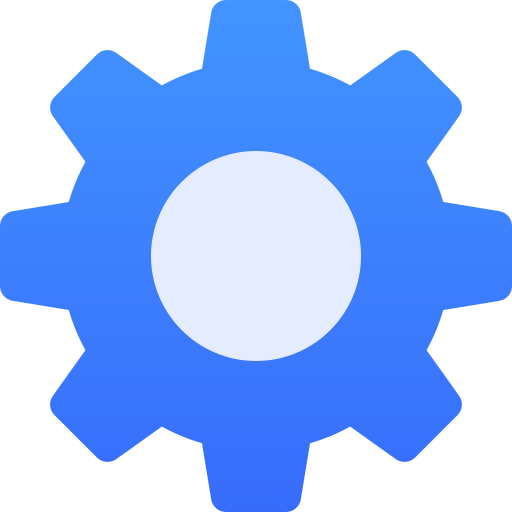
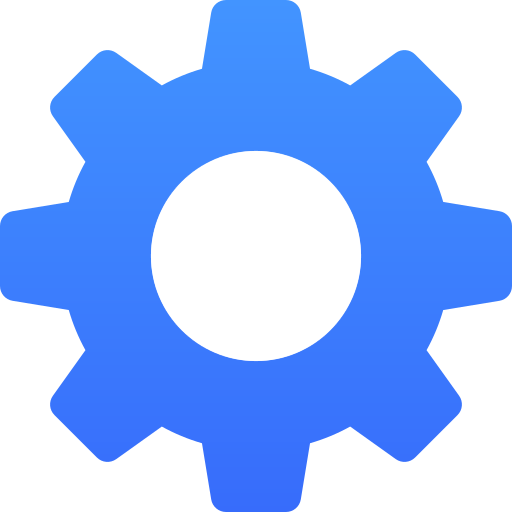
selecting files in mobile

Changed region(s): [[0.2812, 0.2812, 0.7188, 0.7188]]

diff --git a/src/components/icon.tsx b/src/components/icon.tsx
@@ -2,6 +2,7 @@ import { useCallback, useEffect, useState } from "react";
 import { useRootContext } from "../context/RootContext";
 import { useWindowContext } from "../context/WindowContext";
 import { FileData } from "../types/file";
+import { Trash2 } from "lucide-react";
 
 interface IconProps {
     icon: FileData;
@@ -9,21 +10,20 @@ interface IconProps {
 }
 
 export default function Icon({ icon, beingDragged }: IconProps) {
-
-    const { root } = useRootContext();
-    const { fileViewer, openLink, imgViewer, newFile, contextMenu } = useWindowContext();
+    const { root, isMobile } = useRootContext();
+    const { fileViewer, openLink, imgViewer, newFile, contextMenu, deleteFile } = useWindowContext();
     const [imageSrc, setImageSrc] = useState<string>("/assets/images/file.png");
-    // const [loading, setLoading] = useState<>
-    const [isValidImage, setIsValidImage] = useState<boolean | null>(null)
-    const [driveThumb, setDriveThumb] = useState<string | null>(null)
-    const [clickEffects, setClickEffects] = useState<{ id: number, x: number, y: number }[]>([])
+    const [isValidImage, setIsValidImage] = useState<boolean | null>(null);
+    const [driveThumb, setDriveThumb] = useState<string | null>(null);
+    const [clickEffects, setClickEffects] = useState<{ id: number, x: number, y: number }[]>([]);
+    
+    // Estado para seleção no mobile
+    const [isSelected, setIsSelected] = useState(false);
 
     function getDomainFromUrl(url: string): string {
         try {
             const hostname = new URL(url).hostname;
-
             const parts = hostname.split(".");
-
             const isCompoundSuffix = parts.length > 2 && parts[parts.length - 2].length <= 3;
             const rootDomain = isCompoundSuffix
                 ? parts.slice(-3).join(".")
@@ -34,12 +34,11 @@ export default function Icon({ icon, beingDragged }: IconProps) {
         }
     }
 
-
     useEffect(() => {
         const validateImage = async (): Promise<boolean> => {
             return new Promise((resolve) => {
                 if (!icon.url || icon.fileType !== 'link') return;
-                let convertedUrl = 'null'
+                let convertedUrl = 'null';
 
                 if (icon.url.startsWith('https://drive.google.com')) {
                     const regex = /\/d\/([a-zA-Z0-9_-]+)/;
@@ -48,38 +47,33 @@ export default function Icon({ icon, beingDragged }: IconProps) {
                     if (match && match[1]) {
                         const fileId = match[1];
                         convertedUrl = `https://lh3.googleusercontent.com/d/${fileId}=w1000`;
-                        setDriveThumb(convertedUrl)
+                        setDriveThumb(convertedUrl);
                     } else {
                         console.warn("Não foi possível extrair o ID do arquivo do Google Drive.");
                     }
                 } else if (/\.(jpg|jpeg|webp|png)/i.test(icon.url as string)) {
-                    convertedUrl = icon.url
+                    convertedUrl = icon.url;
                 }
 
                 const img = new Image();
 
-
                 if (convertedUrl) {
                     img.src = convertedUrl;
                 } else {
-                    img.src = icon.url
+                    img.src = icon.url;
                 }
                 img.onload = () => resolve(true);
                 img.onerror = () => resolve(false);
             });
         }
 
-
         const callValidateFunction = async () => {
             const isValid = await validateImage();
-
-            setIsValidImage(isValid)
+            setIsValidImage(isValid);
         }
 
-        callValidateFunction()
-
-    }, [icon.url])
-
+        callValidateFunction();
+    }, [icon.url]);
 
     useEffect(() => {
         function loadIcon() {
@@ -109,11 +103,9 @@ export default function Icon({ icon, beingDragged }: IconProps) {
         loadIcon();
     }, [icon, isValidImage]);
 
-
     const returnAction = useCallback(() => {
-
         if (!root.canOpenWindow || beingDragged) return;
-        newFile.setFile(icon)
+        newFile.setFile(icon);
 
         if (icon.fileType === "link") {
             if (!icon.url) return;
@@ -121,7 +113,7 @@ export default function Icon({ icon, beingDragged }: IconProps) {
                 imgViewer.setFile(icon);
                 imgViewer.openWindow();
             } else {
-                const dontWarning = localStorage.getItem('dont-show-warning')
+                const dontWarning = localStorage.getItem('dont-show-warning');
 
                 if (dontWarning === 'true') {
                     window.open(icon.url as string, '_blank')?.focus();
@@ -136,11 +128,15 @@ export default function Icon({ icon, beingDragged }: IconProps) {
 
         if (icon.fileType === "folder") {
             fileViewer.openWindow();
-            fileViewer.setFile(icon)
+            fileViewer.setFile(icon);
         }
-    }, [icon.url, isValidImage, root])
+    }, [icon.url, isValidImage, root]);
 
     const handleClick = (e: React.MouseEvent<HTMLDivElement>) => {
+        if (isMobile) {
+            setIsSelected(!isSelected);
+        }
+
         const rect = e.currentTarget.getBoundingClientRect();
         const x = e.clientX - rect.left;
         const y = e.clientY - rect.top;
@@ -153,16 +149,31 @@ export default function Icon({ icon, beingDragged }: IconProps) {
         }, 1500);
     };
 
+    const handleDeleteFile = useCallback((e: React.MouseEvent) => {
+        e.stopPropagation();
+        deleteFile.setFile(icon);
+        deleteFile.openWindow();
+    }, [icon]);
 
     return (
-        <div onClick={handleClick}
+        <div 
+            onClick={handleClick}
             onDoubleClick={returnAction}
-            className={`${contextMenu.selectedIconId === icon.id ? 'bg-blue-500/30  border-blue-500 shadow-[-5px_-5px] shadow-[#2B7FFF]' : `border-transparent 
-            ${beingDragged ? 'scale-105 bg-blue-500/25' : 'hover:bg-white/15'}`} 
-        border-2  transition-all p-1 px-2 duration-300 group select-none flex flex-col justify-center overflow-hidden
-        items-center gap-2 w-20 h-full max-h-40  rounded-sm cursor-pointer relative `}>
+            className={`${contextMenu.selectedIconId === icon.id || (isMobile && isSelected) ? 
+            'bg-blue-500/30 border-blue-500' : `overflow-hidden border-transparent ${beingDragged ? 'scale-105 bg-blue-500/25' : 'hover:bg-white/15'}`} 
+            border-2 transition-all p-1 px-2 duration-300 group select-none flex flex-col justify-center 
+            items-center gap-2 w-20 h-full max-h-40 rounded-sm cursor-pointer relative`}
+        >
+            <div 
+                onClick={handleDeleteFile} 
+                className={`${isMobile && isSelected ? 'scale-100' : 'scale-0'} flex justify-center absolute top-[-16px] right-[-16px] cursor-pointer items-center 
+                transition-all p-1.5 bg-red-500 text-white hover:bg-white hover:text-red-600 rounded-full z-100`}
+            >
+                <Trash2 size={18} />
+            </div>
 
-            {clickEffects.map(effect => (
+
+            {!isSelected && clickEffects.map(effect => (
                 <span
                     key={effect.id}
                     className="absolute w-3 h-3 bg-white/60 clickPing rounded-full pointer-events-none origin-center"
@@ -181,11 +192,10 @@ export default function Icon({ icon, beingDragged }: IconProps) {
                 backgroundRepeat: 'no-repeat'
             }} className={`${beingDragged ? 'scale-106' : 'group-hover:scale-103'} bg-red max-w-13 w-full flex justify-center items-center h-8 max-h-8 transition-transform 
             origin-center drop-shadow-zinc-950/40 drop-shadow-md`}>
-                {/* <img src={imageSrc} alt={icon.name} className="w-full h-full object-contain pointer-events-none select-none " /> */}
             </div>
-            <div className={`${contextMenu.selectedIconId === icon.id ? 'bg-black/70' : `group-hover:bg-black/60 bg-black/40 ${beingDragged ? 'scale-106' : 'group-hover:scale-103'}`}  
-              p-1 backdrop-blur-sm rounded-md  text-center flex flex-row items-center justify-center
-            max-w-19 transition-all origin-top `}>
+
+            <div className={`${contextMenu.selectedIconId === icon.id || (isMobile && isSelected) ? 'bg-black/70' : `group-hover:bg-black/60 bg-black/40 ${beingDragged ? 'scale-106' : 'group-hover:scale-103'}`}  
+              p-1 backdrop-blur-sm rounded-md text-center flex flex-row items-center justify-center max-w-19 transition-all origin-top`}>
                 <p className="text-[14px]/[18px] text-shadow-sm text-shadow-black/40 line-clamp-2">{icon.name}</p>
             </div>
         </div>

diff --git a/src/components/SearchBar.tsx b/src/components/SearchBar.tsx
@@ -1,5 +1,5 @@
 import { ExternalLink, Search } from "lucide-react";
-import { useCallback, useEffect, useMemo, useState } from "react";
+import { useCallback, useEffect, useMemo, useRef, useState } from "react";
 import { useTranslation } from "react-i18next";
 import { useUser } from "../context/AuthContext";
 // import { FullFileData, listenToAllFilesByDesktop } from "../services/file";
@@ -19,6 +19,20 @@ export default function SearchBar() {
     const { user, currentDesktop } = useUser();
     const [searchTerm, setSearchTerm] = useState<string>('');
     const [imageValidations, setImageValidations] = useState<Record<string, boolean>>({});
+    const containerRef = useRef<HTMLDivElement>(null);
+    const inputRef = useRef<HTMLInputElement>(null);
+
+    useEffect(() => {
+        const handleClickOutside = (e: MouseEvent) => {
+            if (containerRef.current && !containerRef.current.contains(e.target as Node)) {
+                inputRef.current?.blur();
+                setSearchTerm('');
+            }
+        }
+
+        document.addEventListener('mousedown', handleClickOutside)
+        return () => document.removeEventListener('mousedown', handleClickOutside)
+    }, [])
 
     function getDomainFromUrl(url: string): string {
         try {
@@ -152,7 +166,7 @@ export default function SearchBar() {
                 imgViewer.setFile(file);
                 imgViewer.openWindow();
             } else {
-               const dontWarning = localStorage.getItem('dont-show-warning')
+                const dontWarning = localStorage.getItem('dont-show-warning')
 
                 if (dontWarning === 'true') {
                     window.open(file.url as string, '_blank')?.focus();
@@ -172,9 +186,10 @@ export default function SearchBar() {
 
 
     return (
-        <div className="w-full max-w-[400px] relative select-none">
+        <div ref={containerRef} className="w-full max-w-[400px] relative select-none">
             <Search className='absolute left-3 z-10 top-1/2 -translate-y-1/2 text-zinc-200 transition-all duration-300' />
             <input
+                ref={inputRef}
                 onChange={(e) => setSearchTerm(e.target.value)}
                 value={searchTerm}
                 className="peer w-full h-10 pl-11 pr-4 cursor-pointer transition-all duration-300 outline-none border-[2px] border-transparent
@@ -195,10 +210,6 @@ export default function SearchBar() {
                             </div>
                             <p className="ml-[-5px] p-1 px-2 opacity-0 transition-all rounded-md group-hover:opacity-100 group-hover:ml-2 text-(--color-lighter) bg-(--color-light)/15">Clique para abrir</p>
                         </div>
-                        {/* <p className="absolute bg-(--color-light) h-full right-0 flex items-center justify-end gap-2
-                    transition-all text-center font-medium text-lg overflow-hidden max-w-0 w-full group-hover:pr-3 group-hover:max-w-[95px]">
-                            Abrir <ExternalLink size={20} />
-                        </p> */}
                     </div>
                 ))}
             </div>

diff --git a/src/components/taskbar.tsx b/src/components/taskbar.tsx
@@ -9,16 +9,20 @@ export default function TaskBar() {
     const { user } = useUser();
 
     return (
-        <div className="max-h-10 z-100 fixed bottom-0 flex flex-row justify-center items-center gap-2 h-10 w-full backdrop-blur-sm bg-black/60 overflow-hidden transition-all duration-600 select-none">
+        <div className="max-h-11 z-100 fixed bottom-0 flex flex-row justify-center items-center gap-2 h-11 w-full backdrop-blur-sm bg-black/60 
+        overflow-hidden transition-all duration-600 select-none">
+
             <img onClick={() => {
                 minimazeAllWindows()
                 config.openWindow()
-            }} src="/assets/images/settings.png" alt="profile" className=" p-1.5 px-2 w-11 transition-all cursor-pointer hover:bg-zinc-500/30" />
+            }} src="/assets/images/settings.png" alt="profile" className=" p-2 w-11 transition-all cursor-pointer hover:bg-zinc-500/30" />
+
             <div onClick={() => {
                 minimazeAllWindows()
                 profile.openWindow()
-            }} className="p-1.5 px-2 w-11 h-full transition-all cursor-pointer hover:bg-zinc-500/30">
-                <div style={{ backgroundImage: `url(${user?.profileImage ? user.profileImage : '/assets/images/profile.png'})`, backgroundSize: 'cover  ' }} className="w-full h-full rounded-full" />
+            }} className="p-[7px] w-11 h-full transition-all cursor-pointer hover:bg-zinc-500/30">
+                <div style={{ backgroundImage: `url(${user?.profileImage ? user.profileImage : '/assets/images/profile.png'})`, backgroundSize: 'cover  ' }} 
+                className="w-full h-full rounded-full" />
             </div>
 
             {/* VERSAO LANCAMENTO */}
@@ -26,7 +30,12 @@ export default function TaskBar() {
             <img onClick={() => {
                 minimazeAllWindows()
                 social.openWindow()
-            }} src="/assets/images/users.png" alt="users" className=" p-1.5 px-2 w-11 transition-all cursor-pointer hover:bg-zinc-500/30" />
+            }} src="/assets/images/users.png" alt="users" className=" p-1.5 w-11 transition-all cursor-pointer hover:bg-zinc-500/30" />
+
+            <img onClick={() => {
+                minimazeAllWindows()
+                social.openWindow()
+            }} src="/assets/images/coffee.png" alt="users" className="p-[5px] w-11 transition-all cursor-pointer hover:bg-zinc-500/30" />
 
             <div onClick={minimazeAllWindows} className="p-2 hover:px-4 cursor-pointer absolute right-0 hover:bg-white/20 transition-all text-white">
                 |
